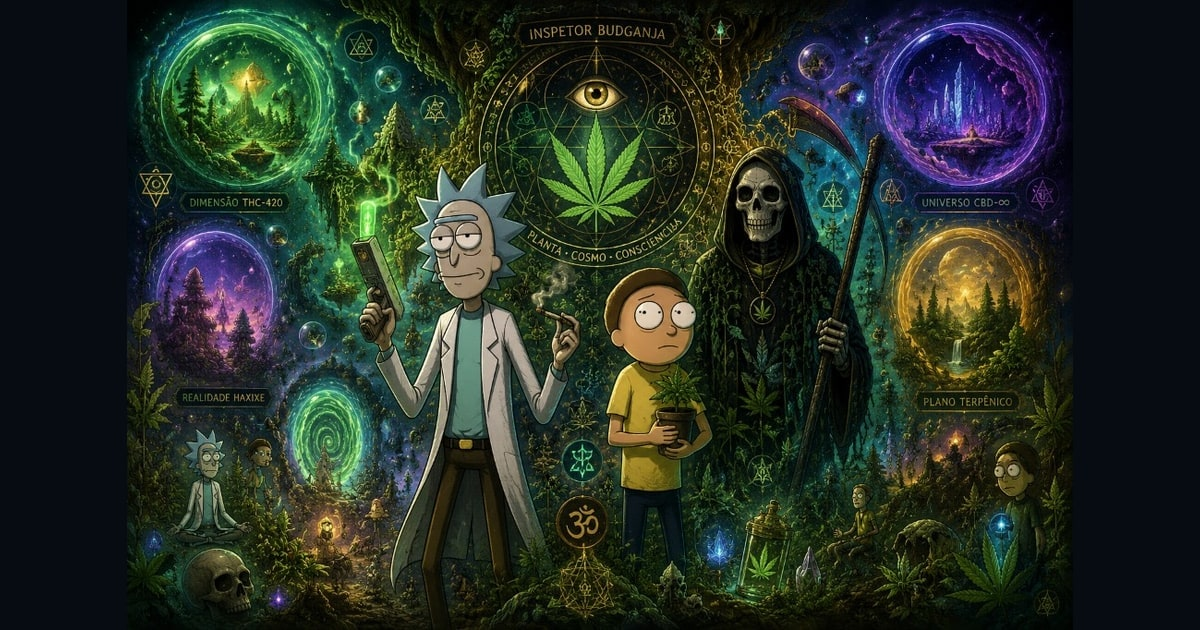
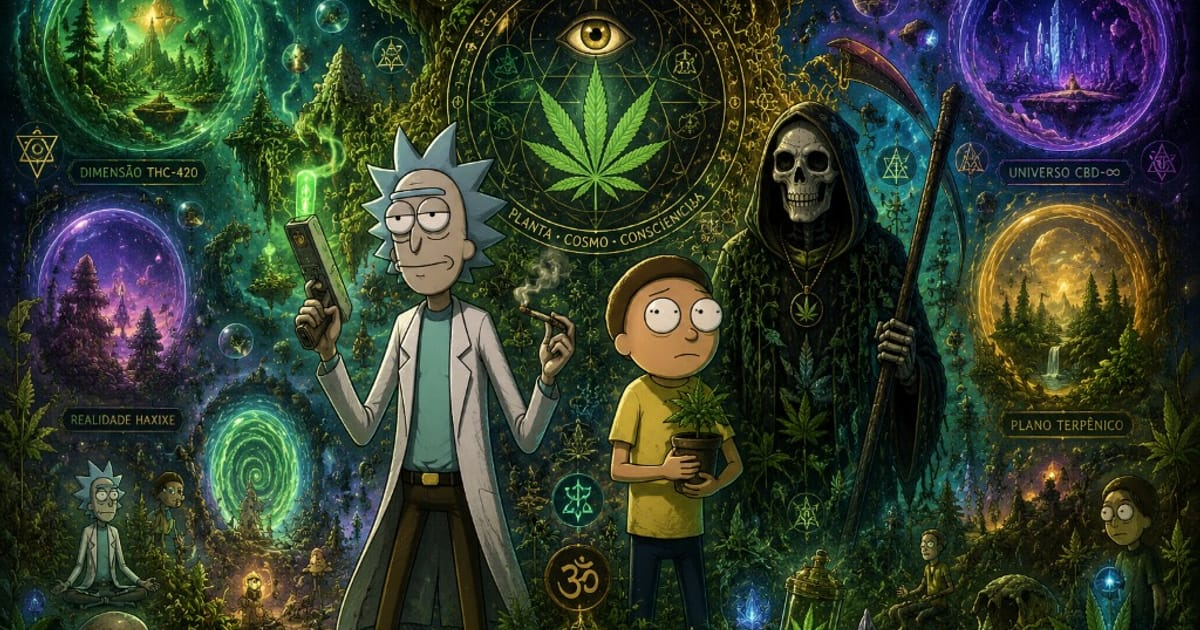
WhatsApp: copiar a inspeção leva a capa no clipboard e o preview busca a arte nova.

diff --git a/posts/post-inspecao-desenho-rick-and-morty.html b/posts/post-inspecao-desenho-rick-and-morty.html
@@ -8,32 +8,32 @@
 <meta property="og:description" content="Artes · desenho 2013: Rick and Morty (Harmon / Roiland / Adult Swim) — multiverso e portal; elo BudGanja com faça o melhor: infinitas linhas não cancelam o ofício nesta.">
 <meta property="og:type" content="article">
 <meta property="og:url" content="https://inspetorbudganja.com.br/posts/post-inspecao-desenho-rick-and-morty.html">
-<meta property="og:image" content="https://inspetorbudganja.com.br/imagens/inspecoes/rick-and-morty-cover.jpg">
-<meta property="og:image:secure_url" content="https://inspetorbudganja.com.br/imagens/inspecoes/rick-and-morty-cover.jpg">
+<meta property="og:image" content="https://inspetorbudganja.com.br/imagens/inspecoes/rick-and-morty-cover.jpg?v=2">
+<meta property="og:image:secure_url" content="https://inspetorbudganja.com.br/imagens/inspecoes/rick-and-morty-cover.jpg?v=2">
 <meta property="og:image:type" content="image/jpeg">
 <meta property="og:image:width" content="1200">
 <meta property="og:image:height" content="630">
 <meta name="twitter:card" content="summary_large_image">
 <meta name="twitter:title" content="Inspeção: Rick and Morty — o desenho do portal e o ofício nesta linha">
 <meta name="twitter:description" content="Artes · desenho 2013: Rick and Morty (Harmon / Roiland / Adult Swim) — multiverso e portal; elo BudGanja com faça o melhor: infinitas linhas não cancelam o ofício nesta.">
-<meta name="twitter:image" content="https://inspetorbudganja.com.br/imagens/inspecoes/rick-and-morty-cover.jpg">
+<meta name="twitter:image" content="https://inspetorbudganja.com.br/imagens/inspecoes/rick-and-morty-cover.jpg?v=2">
 <link rel="canonical" href="https://inspetorbudganja.com.br/posts/post-inspecao-desenho-rick-and-morty.html">
 
 <meta name="apple-mobile-web-app-capable" content="yes">
 <meta name="apple-mobile-web-app-status-bar-style" content="black-translucent">
 <meta name="apple-mobile-web-app-title" content="BudGanja">
-    <link rel="icon" href="/imagens/favicon-32.v352.png" sizes="32x32" type="image/png">
-    <link rel="icon" href="/imagens/favicon-48.v352.png" sizes="48x48" type="image/png">
-    <link rel="icon" href="/imagens/favicon-16.v352.png" sizes="16x16" type="image/png">
-    <link rel="icon" href="/imagens/icon-192.v352.png" sizes="192x192" type="image/png">
-    <link rel="shortcut icon" href="/favicon.v352.ico" sizes="any">
-    <link rel="icon" href="/favicon.v352.svg" type="image/svg+xml">
-    <link rel="apple-touch-icon" href="/imagens/apple-touch-icon.v352.png">
-    <link rel="manifest" href="/manifest.json?v=352">
+    <link rel="icon" href="/imagens/favicon-32.v353.png" sizes="32x32" type="image/png">
+    <link rel="icon" href="/imagens/favicon-48.v353.png" sizes="48x48" type="image/png">
+    <link rel="icon" href="/imagens/favicon-16.v353.png" sizes="16x16" type="image/png">
+    <link rel="icon" href="/imagens/icon-192.v353.png" sizes="192x192" type="image/png">
+    <link rel="shortcut icon" href="/favicon.v353.ico" sizes="any">
+    <link rel="icon" href="/favicon.v353.svg" type="image/svg+xml">
+    <link rel="apple-touch-icon" href="/imagens/apple-touch-icon.v353.png">
+    <link rel="manifest" href="/manifest.json?v=353">
     <meta name="theme-color" content="#0a2230">
-    <link rel="stylesheet" href="/css/style.css?v=352">
+    <link rel="stylesheet" href="/css/style.css?v=353">
 <title>Inspeção: Rick and Morty — o desenho do portal e o ofício nesta linha | Inspetor BudGanja</title>
-<script type="application/ld+json">[{"@context":"https://schema.org","@type":"Article","headline":"Inspeção: Rick and Morty — o desenho do portal e o ofício nesta linha","description":"Artes · desenho 2013: Rick and Morty (Harmon / Roiland / Adult Swim) — multiverso e portal; elo BudGanja com faça o melhor: infinitas linhas não cancelam o ofício nesta.","datePublished":"2026-08-23T02:56:00.000Z","image":"https://inspetorbudganja.com.br/imagens/inspecoes/rick-and-morty-cover.jpg","author":{"@type":"Organization","name":"Inspetor BudGanja"}},{"@context":"https://schema.org","@type":"VideoObject","name":"Inspeção: Rick and Morty — o desenho do portal e o ofício nesta linha","description":"Artes · desenho 2013: Rick and Morty (Harmon / Roiland / Adult Swim) — multiverso e portal; elo BudGanja com faça o melhor: infinitas linhas não cancelam o ofício nesta.","thumbnailUrl":"https://inspetorbudganja.com.br/imagens/inspecoes/rick-and-morty-cover.jpg","uploadDate":"2026-08-23T02:56:00.000Z","embedUrl":"https://www.youtube.com/embed/BFTSrbB2wII","contentUrl":"https://www.youtube.com/watch?v=BFTSrbB2wII"}]</script>
+<script type="application/ld+json">[{"@context":"https://schema.org","@type":"Article","headline":"Inspeção: Rick and Morty — o desenho do portal e o ofício nesta linha","description":"Artes · desenho 2013: Rick and Morty (Harmon / Roiland / Adult Swim) — multiverso e portal; elo BudGanja com faça o melhor: infinitas linhas não cancelam o ofício nesta.","datePublished":"2026-08-23T02:56:00.000Z","image":"https://inspetorbudganja.com.br/imagens/inspecoes/rick-and-morty-cover.jpg?v=2","author":{"@type":"Organization","name":"Inspetor BudGanja"}},{"@context":"https://schema.org","@type":"VideoObject","name":"Inspeção: Rick and Morty — o desenho do portal e o ofício nesta linha","description":"Artes · desenho 2013: Rick and Morty (Harmon / Roiland / Adult Swim) — multiverso e portal; elo BudGanja com faça o melhor: infinitas linhas não cancelam o ofício nesta.","thumbnailUrl":"https://inspetorbudganja.com.br/imagens/inspecoes/rick-and-morty-cover.jpg?v=2","uploadDate":"2026-08-23T02:56:00.000Z","embedUrl":"https://www.youtube.com/embed/BFTSrbB2wII","contentUrl":"https://www.youtube.com/watch?v=BFTSrbB2wII"}]</script>
 </head>
 <body data-page="inspecao" data-post-slug="inspecao-desenho-rick-and-morty">
 <div id="site-header"></div>
@@ -51,7 +51,7 @@
 </div>
 
 <figure class="article-cover">
-<img src="/imagens/inspecoes/rick-and-morty-cover.jpg" alt="" class="article-cover-img" width="1200" height="630" decoding="async" fetchpriority="high" data-share-image="/imagens/inspecoes/rick-and-morty-cover.jpg">
+<img src="/imagens/inspecoes/rick-and-morty-cover.jpg?v=2" alt="" class="article-cover-img" width="1200" height="630" decoding="async" fetchpriority="high" data-share-image="/imagens/inspecoes/rick-and-morty-cover.jpg?v=2">
 </figure>
 <div class="meta-info" data-post-date data-date-iso="2026-08-23">Publicado em 22 de agosto de 2026</div>
 </header>
@@ -61,7 +61,7 @@
 <p>Pedido de ouvido: <a href="/posts/post-inspecao-expressao-a-orelha-cola-o-que-a-boca-juntou.html">a orelha cola o que a boca juntou</a> — <em>RikRok</em> (canção) colou-se a <em>Rick</em>; <em>Mort</em> a <em>Morty</em>. <strong>Objectos distintos.</strong> Esta ficha é o <strong>desenho</strong>.</p>
 <div class="video-embed-block"><div class="video-embed"><iframe src="https://www.youtube-nocookie.com/embed/BFTSrbB2wII" title="Vídeo do YouTube" loading="lazy" allow="accelerometer; autoplay; clipboard-write; encrypted-media; gyroscope; picture-in-picture; web-share" referrerpolicy="strict-origin-when-cross-origin" allowfullscreen></iframe></div><p class="video-embed-continue"><a class="botao botao-outline botao-sm" href="https://www.youtube.com/watch?v=BFTSrbB2wII" target="_blank" rel="noopener noreferrer">Continuar no YouTube</a><span class="video-embed-continue-hint">Para ouvir com o ecrã desligado, abra na app YouTube.</span></p></div>
 <h2>Objeto inspecionado</h2>
-<table><thead><tr><th>Campo</th><th>Valor</th></tr></thead><tbody><tr><td>Título</td><td><strong>Rick and Morty</strong> (BR: o mesmo nome; fala: <em>Rick e Morty</em>)</td></tr><tr><td>Meio</td><td>Série · <strong>desenho</strong> adulto · sitcom de ficção científica</td></tr><tr><td>Estreia</td><td><strong>2 dez. 2013</strong> — Adult Swim (Cartoon Network, EUA)</td></tr><tr><td>Criação</td><td><strong>Dan Harmon</strong> · <strong>Justin Roiland</strong></td></tr><tr><td>Génese (pré-série)</td><td>Curta Channel 101 (<strong>2006</strong>): <em>The Real Animated Adventures of Doc and Mharti</em> — paródia de <a href="/posts/post-inspecao-filme-de-volta-para-o-futuro.html">De Volta para o Futuro</a></td></tr><tr><td>Núcleo</td><td><strong>Rick Sanchez</strong> (cientista cínico) e <strong>Morty Smith</strong> (neto) — casa × portal</td></tr><tr><td>Máquina da trama</td><td><strong>Multiverso</strong> / dimensões (portal; a série nomeia C-137 como marca de <em>um</em> Rick)</td></tr><tr><td>Tipo BudGanja</td><td>Arte — <strong>desenho 2013 primeiro</strong>; multiverso como parábola de ofício</td></tr><tr><td>Elo mantra</td><td><a href="/posts/post-inspecao-expressao-faca-o-melhor.html">Faça o melhor</a> · <a href="/posts/post-inspecao-palavra-valeu.html">Valeu !!!</a> — nesta linha, não na perfeita de outro universo</td></tr><tr><td>Elo Palavras</td><td><a href="/posts/post-inspecao-palavra-teoria-das-cordas.html">teoria das cordas</a> · <a href="/posts/post-inspecao-palavra-caminho.html">caminho</a> · <a href="/posts/post-inspecao-palavra-verdade.html">verdade</a> · <a href="/posts/post-inspecao-palavra-vida.html">vida</a> · <a href="/posts/post-inspecao-palavra-risco.html">risco</a> · <a href="/posts/post-inspecao-palavra-medo.html">medo</a> · <a href="/posts/post-inspecao-palavra-gesto.html">gesto</a></td></tr><tr><td>Elo Artes</td><td><a href="/posts/post-inspecao-filme-de-volta-para-o-futuro.html">De Volta para o Futuro</a> · <a href="/posts/post-inspecao-filme-the-matrix.html">Matrix</a> · <a href="/posts/post-inspecao-filme-alice-no-pais-das-maravilhas.html">Alice</a> · <a href="/posts/post-inspecao-filme-divertida-mente.html">Divertida Mente</a> · <a href="/posts/post-inspecao-filme-moana.html">Moana</a></td></tr><tr><td>Elo processo</td><td><a href="/posts/post-inspecao-expressao-loop-infinito.html">loop infinito</a> — trocar de universo ≠ condição de paragem</td></tr><tr><td>Fonte</td><td><a href="https://pt.wikipedia.org/wiki/Rick_and_Morty">Wikipédia</a> · <a href="https://en.wikipedia.org/wiki/Rick_and_Morty">EN</a> · <a href="https://www.youtube.com/watch?v=BFTSrbB2wII">promo S1</a></td></tr><tr><td>Data</td><td>2026-08-22</td></tr></tbody></table>
+<table><thead><tr><th>Campo</th><th>Valor</th></tr></thead><tbody><tr><td>Título</td><td><strong>Rick and Morty</strong> (BR: o mesmo nome; fala: <em>Rick e Morty</em>)</td></tr><tr><td>Meio</td><td>Série · <strong>desenho</strong> adulto · sitcom de ficção científica</td></tr><tr><td>Estreia</td><td><strong>2 dez. 2013</strong> — Adult Swim (Cartoon Network, EUA)</td></tr><tr><td>Criação</td><td><strong>Dan Harmon</strong> · <strong>Justin Roiland</strong></td></tr><tr><td>Génese (pré-série)</td><td>Curta Channel 101 (<strong>2006</strong>): <em>The Real Animated Adventures of Doc and Mharti</em> — paródia de <a href="/posts/post-inspecao-filme-de-volta-para-o-futuro.html">De Volta para o Futuro</a></td></tr><tr><td>Núcleo</td><td><strong>Rick Sanchez</strong> (cientista cínico) e <strong>Morty Smith</strong> (neto) — casa × portal</td></tr><tr><td>Máquina da trama</td><td><strong>Multiverso</strong> / dimensões (portal; a série nomeia C-137 como marca de <em>um</em> Rick)</td></tr><tr><td>Tipo BudGanja</td><td>Arte — <strong>desenho 2013 primeiro</strong>; multiverso como parábola de ofício</td></tr><tr><td>Elo mantra</td><td><a href="/posts/post-inspecao-expressao-faca-o-melhor.html">Faça o melhor</a> · <a href="/posts/post-inspecao-palavra-valeu.html">Valeu !!!</a> · <a href="/posts/post-inspecao-expressao-eu-amo-a-vida.html">eu amo a vida</a> — nesta linha, não na perfeita de outro universo</td></tr><tr><td>Elo Palavras</td><td><a href="/posts/post-inspecao-palavra-teoria-das-cordas.html">teoria das cordas</a> · <a href="/posts/post-inspecao-palavra-caminho.html">caminho</a> · <a href="/posts/post-inspecao-palavra-verdade.html">verdade</a> · <a href="/posts/post-inspecao-palavra-vida.html">vida</a> · <a href="/posts/post-inspecao-palavra-risco.html">risco</a> · <a href="/posts/post-inspecao-palavra-medo.html">medo</a> · <a href="/posts/post-inspecao-palavra-gesto.html">gesto</a></td></tr><tr><td>Elo Artes</td><td><a href="/posts/post-inspecao-filme-de-volta-para-o-futuro.html">De Volta para o Futuro</a> · <a href="/posts/post-inspecao-filme-the-matrix.html">Matrix</a> · <a href="/posts/post-inspecao-filme-alice-no-pais-das-maravilhas.html">Alice</a> · <a href="/posts/post-inspecao-filme-divertida-mente.html">Divertida Mente</a> · <a href="/posts/post-inspecao-filme-moana.html">Moana</a></td></tr><tr><td>Elo processo</td><td><a href="/posts/post-inspecao-expressao-loop-infinito.html">loop infinito</a> — trocar de universo ≠ condição de paragem</td></tr><tr><td>Fonte</td><td><a href="https://pt.wikipedia.org/wiki/Rick_and_Morty">Wikipédia</a> · <a href="https://en.wikipedia.org/wiki/Rick_and_Morty">EN</a> · <a href="https://www.youtube.com/watch?v=BFTSrbB2wII">promo S1</a></td></tr><tr><td>Data</td><td>2026-08-22</td></tr></tbody></table>
 <p><strong>Objecto:</strong> o <strong>desenho</strong> que ensina (e esvazia) o infinito. Rick arrasta Morty; o portal multiplica saídas. O laboratório pergunta: quando há mil linhas, <strong>qual fica</strong>?</p>
 <h2>Hipóteses e método</h2>
 <p><strong>H1:</strong> o valor BudGanja começa na <strong>génese 2006–2013</strong> — Channel 101 (Doc/Mharti) → Adult Swim 2 dez. 2013 — antes de merch, citadel-memes ou temporadas tardias.  <br><strong>H2:</strong> o <strong>multiverso</strong> é o motor cómico e o risco moral da obra: se existe outra Terra, o abandono desta parece barato. Tese lab: infinitas linhas <strong>não</strong> cancelam <a href="/posts/post-inspecao-expressao-faca-o-melhor.html">faça o melhor</a> <strong>aqui</strong>.  <br><strong>H3:</strong> paródia de <a href="/posts/post-inspecao-filme-de-volta-para-o-futuro.html">De Volta para o Futuro</a>: Doc/Marty viram Rick/Morty. A ficha honra o <strong>filme 1985</strong> e os <a href="/posts/post-inspecao-figura-michael-j-fox.html">actores</a> / <a href="/posts/post-inspecao-figura-christopher-lloyd.html">Lloyd</a>; o desenho é <strong>outro objecto</strong>.  <br><strong>H4:</strong> distinto de <a href="/posts/post-inspecao-filme-the-matrix.html">Matrix</a> (um véu) e de <a href="/posts/post-inspecao-filme-alice-no-pais-das-maravilhas.html">Alice</a> (uma toca). Aqui o número de tocas <strong>não acaba</strong>. Distinto de <a href="/posts/post-inspecao-palavra-teoria-das-cordas.html">teoria das cordas</a>: metáfora de física ≠ portal de sitcom.  <br><strong>H5:</strong> o cinismo de Rick não é método BudGanja. <a href="/posts/post-inspecao-expressao-toda-crianca-nasce-cientista.html">Toda criança nasce cientista</a> pede pergunta; o desenho às vezes pede <strong>fuga</strong>. O laboratório lê o desvio.</p>
@@ -82,7 +82,7 @@
 <article class="post-poem-reader vida-poem-reader" aria-label="Poema"><div class="vida-poem-body"><p class="vida-poem-stanza">Rick and Morty.<br>Não pedimos o portal emprestado —<br>pedimos o ofício de ficar<br>quando há mil portas<br>e só uma planta nesta mão.</p><p class="vida-poem-stanza">Harmon. Roiland. Adult Swim.<br>Houve um festival de curtas<br>onde Doc e Marty nasciam tortos —<br>e um desenho que levou o par<br>a um suburbio e a um número sem fim<br>de linhas que não se tocam.<br>Houve um portal verde,<br>um neto que treme,<br>um avô que finge que nada importa.<br>Houve a tentação de chamar destino<br>ao que é só mais uma dimensão.</p><p class="vida-poem-stanza">O laboratório conhece esse número.<br>Infinito que parece alívio<br>e vira fuga.<br>Teoria que vibra no quadro<br>e não rega o vaso.<br>Loop que troca de universo<br>em vez de pôr condição de paragem.</p><p class="vida-poem-stanza">Ainda assim: esta linha.<br>Este dia.<br>Esta gota.<br>Faça o melhor.<br>Não o perfeito de outro Rick.<br>O possível honesto aqui.</p><p class="vida-poem-stanza">Valeu !!!</p><p class="vida-poem-stanza">Porque toda vez que alguém<br>não troca de universo<br>quando o ofício aperta,<br>o universo — este —<br>cresce um pouco:<br>um verso a mais,<br>um dossel a mais,<br>uma rua onde o portal<br>não apaga a planta.</p></div></article>
 <p><a href="/vida/#poema=rick-and-morty">▶ Ler na página Vida</a></p>
 <h2>Rede BudGanja</h2>
-<table><thead><tr><th>Recurso</th><th>Papel</th></tr></thead><tbody><tr><td><a href="/posts/post-inspecao-expressao-faca-o-melhor.html">Faça o melhor</a> · <a href="/posts/post-inspecao-palavra-valeu.html">Valeu !!!</a></td><td>Mantra: nesta linha, o possível honesto</td></tr><tr><td><a href="/posts/post-inspecao-palavra-teoria-das-cordas.html">teoria das cordas</a> · <a href="/posts/post-inspecao-expressao-loop-infinito.html">loop infinito</a></td><td>Física-metáfora × processo sem saída</td></tr><tr><td><a href="/posts/post-inspecao-filme-de-volta-para-o-futuro.html">De Volta para o Futuro</a> · <a href="/posts/post-inspecao-delorean.html">DeLorean</a></td><td>Pai cultural do par cientista/jovem</td></tr><tr><td><a href="/posts/post-inspecao-filme-the-matrix.html">Matrix</a> · <a href="/posts/post-inspecao-filme-alice-no-pais-das-maravilhas.html">Alice</a></td><td>Um véu / uma toca — aqui o número não acaba</td></tr><tr><td><a href="/posts/post-inspecao-filme-moana.html">Moana</a> · <a href="/posts/post-inspecao-filme-divertida-mente.html">Divertida Mente</a></td><td>Outros desenhos de ofício (ilha; emoção)</td></tr><tr><td><a href="/posts/post-inspecao-palavra-caminho.html">caminho</a> · <a href="/posts/post-inspecao-palavra-vida.html">vida</a> · <a href="/posts/post-inspecao-palavra-verdade.html">verdade</a> · <a href="/posts/post-inspecao-palavra-gesto.html">gesto</a></td><td>Léxico de ficar</td></tr><tr><td><a href="/posts/post-inspecao-expressao-toda-crianca-nasce-cientista.html">Toda criança nasce cientista</a></td><td>Pergunta ≠ cinismo</td></tr><tr><td>Hub <a href="/biblioteca/inspecoes/#inspecoes-artes">Artes</a> · <a href="/biblioteca/inspecoes/#inspecoes-palavras">Palavras</a> · <a href="/biblioteca/inspecoes/">Inspeções</a> · <a href="/vida/">Vida</a></td><td>Mapa</td></tr></tbody></table>
+<table><thead><tr><th>Recurso</th><th>Papel</th></tr></thead><tbody><tr><td><a href="/posts/post-inspecao-expressao-faca-o-melhor.html">Faça o melhor</a> · <a href="/posts/post-inspecao-palavra-valeu.html">Valeu !!!</a> · <a href="/posts/post-inspecao-expressao-eu-amo-a-vida.html">eu amo a vida</a></td><td>Mantra: nesta linha, o possível honesto</td></tr><tr><td><a href="/posts/post-inspecao-palavra-teoria-das-cordas.html">teoria das cordas</a> · <a href="/posts/post-inspecao-expressao-loop-infinito.html">loop infinito</a></td><td>Física-metáfora × processo sem saída</td></tr><tr><td><a href="/posts/post-inspecao-filme-de-volta-para-o-futuro.html">De Volta para o Futuro</a> · <a href="/posts/post-inspecao-delorean.html">DeLorean</a></td><td>Pai cultural do par cientista/jovem</td></tr><tr><td><a href="/posts/post-inspecao-filme-the-matrix.html">Matrix</a> · <a href="/posts/post-inspecao-filme-alice-no-pais-das-maravilhas.html">Alice</a></td><td>Um véu / uma toca — aqui o número não acaba</td></tr><tr><td><a href="/posts/post-inspecao-filme-moana.html">Moana</a> · <a href="/posts/post-inspecao-filme-divertida-mente.html">Divertida Mente</a></td><td>Outros desenhos de ofício (ilha; emoção)</td></tr><tr><td><a href="/posts/post-inspecao-palavra-caminho.html">caminho</a> · <a href="/posts/post-inspecao-palavra-vida.html">vida</a> · <a href="/posts/post-inspecao-palavra-verdade.html">verdade</a> · <a href="/posts/post-inspecao-palavra-gesto.html">gesto</a></td><td>Léxico de ficar</td></tr><tr><td><a href="/posts/post-inspecao-expressao-toda-crianca-nasce-cientista.html">Toda criança nasce cientista</a></td><td>Pergunta ≠ cinismo</td></tr><tr><td>Hub <a href="/biblioteca/inspecoes/#inspecoes-artes">Artes</a> · <a href="/biblioteca/inspecoes/#inspecoes-palavras">Palavras</a> · <a href="/biblioteca/inspecoes/">Inspeções</a> · <a href="/vida/">Vida</a></td><td>Mapa</td></tr></tbody></table>
 <h2>Status</h2>
 <p><strong>Aprovado</strong> — inspeção do <strong>desenho</strong> 2013 (Harmon / Roiland / Adult Swim) + cruzamento com multiverso e <a href="/posts/post-inspecao-expressao-faca-o-melhor.html">faça o melhor</a>: infinitas linhas não cancelam o ofício nesta. Referência de génese: promo S1.</p>
 <p><a href="https://www.youtube.com/watch?v=BFTSrbB2wII">▶ Promo S1</a> · <a href="/vida/#poema=rick-and-morty">▶ Poema Vida</a> · <a href="/posts/post-inspecao-expressao-faca-o-melhor.html">▶ Faça o melhor</a> · <a href="/posts/post-inspecao-filme-de-volta-para-o-futuro.html">▶ BTTF</a> · <a href="/posts/post-inspecao-palavra-teoria-das-cordas.html">▶ Teoria das cordas</a> · <a href="/posts/post-inspecao-palavra-valeu.html">▶ Valeu !!!</a></p><p class="post-series-badge" data-series="artes-cultura">Rick and Morty · Artes · Cap. 9</p></div>
@@ -106,14 +106,14 @@
 <p><strong>Aprobada</strong> — dibujo 2013 + mapa BudGanja (quedarse en esta línea). Audiovisual de génesis: promo S1.</p><p class="post-series-badge" data-series="artes-cultura">Rick and Morty · Artes · Cap. 9</p></div>
 </main>
 <div id="site-footer"></div>
-<script src="/js/app-version-check.js?v=352"></script>
-<script src="/js/i18n-data.js?v=352"></script>
-    <script src="/js/page-translations-data.js?v=352"></script>
-<script src="/js/i18n.js?v=352"></script>
-<script src="/js/ferramentas-nav-data.js?v=352"></script>
-<script src="/js/layout.js?v=352"></script>
-<script src="/js/site-features.js?v=352"></script>
-<script src="/js/learn-glossary.js?v=352"></script>
-<script src="/js/learn-translate.js?v=352"></script>
+<script src="/js/app-version-check.js?v=353"></script>
+<script src="/js/i18n-data.js?v=353"></script>
+    <script src="/js/page-translations-data.js?v=353"></script>
+<script src="/js/i18n.js?v=353"></script>
+<script src="/js/ferramentas-nav-data.js?v=353"></script>
+<script src="/js/layout.js?v=353"></script>
+<script src="/js/site-features.js?v=353"></script>
+<script src="/js/learn-glossary.js?v=353"></script>
+<script src="/js/learn-translate.js?v=353"></script>
 </body>
 </html>

diff --git a/js/site-features.js b/js/site-features.js
@@ -419,15 +419,71 @@
       });
   }
 
-  function copyShareUrl(url) {
-    if (navigator.clipboard && navigator.clipboard.writeText) {
-      return navigator.clipboard.writeText(url).then(function () {
-        return 'copied';
-      }).catch(function () {
-        return fallbackSharePrompt(url);
-      });
+  function blobToPng(blob) {
+    if (!blob) return Promise.reject(new Error('no blob'));
+    if (blob.type === 'image/png') return Promise.resolve(blob);
+    return new Promise(function (resolve, reject) {
+      var img = new Image();
+      var objUrl = URL.createObjectURL(blob);
+      img.onload = function () {
+        var canvas = document.createElement('canvas');
+        canvas.width = img.naturalWidth || 1200;
+        canvas.height = img.naturalHeight || 630;
+        var ctx = canvas.getContext('2d');
+        if (!ctx) {
+          URL.revokeObjectURL(objUrl);
+          reject(new Error('canvas'));
+          return;
+        }
+        ctx.drawImage(img, 0, 0);
+        URL.revokeObjectURL(objUrl);
+        canvas.toBlob(function (png) {
+          if (png) resolve(png);
+          else reject(new Error('png'));
+        }, 'image/png');
+      };
+      img.onerror = function () {
+        URL.revokeObjectURL(objUrl);
+        reject(new Error('img'));
+      };
+      img.src = objUrl;
+    });
+  }
+
+  function copyShareUrl(url, file) {
+    var writeText = function () {
+      if (navigator.clipboard && navigator.clipboard.writeText) {
+        return navigator.clipboard.writeText(url).then(function () {
+          return 'copied';
+        }).catch(function () {
+          return fallbackSharePrompt(url);
+        });
+      }
+      return Promise.resolve(fallbackSharePrompt(url));
+    };
+
+    if (
+      file &&
+      window.ClipboardItem &&
+      navigator.clipboard &&
+      typeof navigator.clipboard.write === 'function'
+    ) {
+      return blobToPng(file)
+        .then(function (png) {
+          var item = new ClipboardItem({
+            'text/plain': new Blob([url], { type: 'text/plain' }),
+            'image/png': png
+          });
+          return navigator.clipboard.write([item]);
+        })
+        .then(function () {
+          return 'copied';
+        })
+        .catch(function () {
+          return writeText();
+        });
     }
-    return Promise.resolve(fallbackSharePrompt(url));
+    return writeText();
   }
 
   function fallbackSharePrompt(url) {
@@ -477,23 +533,23 @@
         var withoutFiles = sharePagePayload(null);
 
         if (typeof navigator.share !== 'function') {
-          return copyShareUrl(withoutFiles.url);
+          return copyShareUrl(withoutFiles.url, file);
         }
 
         return navigator.share(withFiles).then(function () {
           return 'shared';
         }).catch(function (err) {
           if (err && err.name === 'AbortError') return 'shared';
-          // Alguns browsers rejeitam files — tentar só link.
+          // Alguns browsers rejeitam files — tentar só link; se falhar, copiar URL+capa.
           if (withFiles.files) {
             return navigator.share(withoutFiles).then(function () {
               return 'shared';
             }).catch(function (err2) {
               if (err2 && err2.name === 'AbortError') return 'shared';
-              return copyShareUrl(withoutFiles.url);
+              return copyShareUrl(withoutFiles.url, file);
             });
           }
-          return copyShareUrl(withoutFiles.url);
+          return copyShareUrl(withoutFiles.url, file);
         });
       });
 

diff --git a/js/inspecoes-share-rail.js b/js/inspecoes-share-rail.js
@@ -125,23 +125,69 @@
     return Promise.resolve('fallback');
   }
 
+  function fetchCoverFile(item) {
+    var cover = coverSrc(item && item.coverImage);
+    if (!cover) return Promise.resolve(null);
+    var imageUrl = /^https?:\/\//i.test(cover) ? cover : absUrl(cover);
+    if (/localhost|127\.0\.0\.1/i.test(window.location.hostname || '') &&
+        /^https:\/\/inspetorbudganja\.com\.br\//i.test(imageUrl)) {
+      imageUrl = window.location.origin + imageUrl.replace(/^https:\/\/inspetorbudganja\.com\.br/i, '');
+    }
+    return fetch(imageUrl, { credentials: 'same-origin' })
+      .then(function (res) {
+        if (!res.ok) throw new Error('cover ' + res.status);
+        return res.blob();
+      })
+      .then(function (blob) {
+        if (!blob || !blob.type || blob.type.indexOf('image/') !== 0) return null;
+        try {
+          return new File([blob], 'capa-budganja.jpg', { type: blob.type });
+        } catch (e) {
+          blob.name = 'capa-budganja.jpg';
+          return blob;
+        }
+      })
+      .catch(function () {
+        return null;
+      });
+  }
+
+  function canShareFiles(files) {
+    if (!files || !files.length || typeof navigator.canShare !== 'function') return false;
+    try {
+      return navigator.canShare({ files: files });
+    } catch (e) {
+      return false;
+    }
+  }
+
   function shareItem(item, btn) {
     var url = absUrl(item.url);
     var title = itemTitle(item) || 'Inspetor BudGanja';
     var text = itemExcerpt(item) || title;
-    var payload = { title: title, text: text, url: url };
 
-    var run;
-    if (typeof navigator.share === 'function') {
-      run = navigator.share(payload).then(function () {
-        return 'shared';
-      }).catch(function (err) {
-        if (err && err.name === 'AbortError') return 'shared';
-        return copyUrl(url);
-      });
-    } else {
-      run = copyUrl(url);
-    }
+    var run = fetchCoverFile(item).then(function (file) {
+      var payload = { title: title, text: text, url: url };
+      if (file && canShareFiles([file])) payload.files = [file];
+
+      if (typeof navigator.share === 'function') {
+        return navigator.share(payload).then(function () {
+          return 'shared';
+        }).catch(function (err) {
+          if (err && err.name === 'AbortError') return 'shared';
+          if (payload.files) {
+            return navigator.share({ title: title, text: text, url: url }).then(function () {
+              return 'shared';
+            }).catch(function (err2) {
+              if (err2 && err2.name === 'AbortError') return 'shared';
+              return copyUrl(url);
+            });
+          }
+          return copyUrl(url);
+        });
+      }
+      return copyUrl(url);
+    });
 
     run.then(function (result) {
       if (result === 'copied' || result === 'fallback') showCopied(btn);

diff --git a/scripts/generate-rick-and-morty-cover.js b/scripts/generate-rick-and-morty-cover.js
@@ -18,20 +18,11 @@ async function main() {
   const OUT = path.join(ROOT, 'imagens/inspecoes/rick-and-morty-cover.jpg');
   fs.mkdirSync(path.dirname(OUT), { recursive: true });
 
-  const bg = { r: 7, g: 11, b: 18, alpha: 1 };
-  await sharp({
-    create: { width: 1200, height: 630, channels: 3, background: bg }
-  })
-    .composite([
-      {
-        input: await sharp(src)
-          .rotate()
-          .resize({ width: 1200, height: 630, fit: 'contain', background: bg })
-          .jpeg({ quality: 88, mozjpeg: true })
-          .toBuffer()
-      }
-    ])
-    .jpeg({ quality: 88, mozjpeg: true })
+  // 1200×630 cheio e JPEG leve — o WhatsApp falha previews pesados ou com barras.
+  await sharp(src)
+    .rotate()
+    .resize(1200, 630, { fit: 'cover', position: 'centre' })
+    .jpeg({ quality: 80, mozjpeg: true })
     .toFile(OUT);
 
   const meta = await sharp(OUT).metadata();

diff --git a/lib/rick-and-morty-inspecao-post.js b/lib/rick-and-morty-inspecao-post.js
@@ -421,7 +421,7 @@ function buildRickAndMortyPost() {
     date: '2026-08-23T02:56:00.000Z',
     seriesOrder,
     seriesLabel: 'Rick and Morty · Artes',
-    coverImage: '/imagens/inspecoes/rick-and-morty-cover.jpg',
+    coverImage: '/imagens/inspecoes/rick-and-morty-cover.jpg?v=2',
     sourceUrl: WIKI_EN,
     videoId: YT_ID,
     body,

diff --git a/lib/asset-version.js b/lib/asset-version.js
@@ -3,6 +3,6 @@
 // Versão usada para "cache-busting" dos assets estáticos (?v=...).
 // Incrementar este número quando for preciso forçar navegadores e a
 // Cloudflare a descartarem versões antigas de JS/CSS/Service Worker.
-const ASSET_VERSION = '351';
+const ASSET_VERSION = '353';
 
 module.exports = { ASSET_VERSION };

diff --git a/sw.js b/sw.js
@@ -1,5 +1,5 @@
 // Service Worker para PWA - Inspetor BudGanja
-const APP_VERSION = '351';
+const APP_VERSION = '353';
 const CACHE_NAME = 'budganja-v' + APP_VERSION;
 const urlsToCache = [
     '/',

diff --git a/js/layout.js b/js/layout.js
@@ -1,6 +1,6 @@
 // Layout.js - Dynamic header and footer injection
 
-const ASSET_V = '351';
+const ASSET_V = '353';
 const HOME = '/inverno/';
 
 (function applyStoredTheme() {
